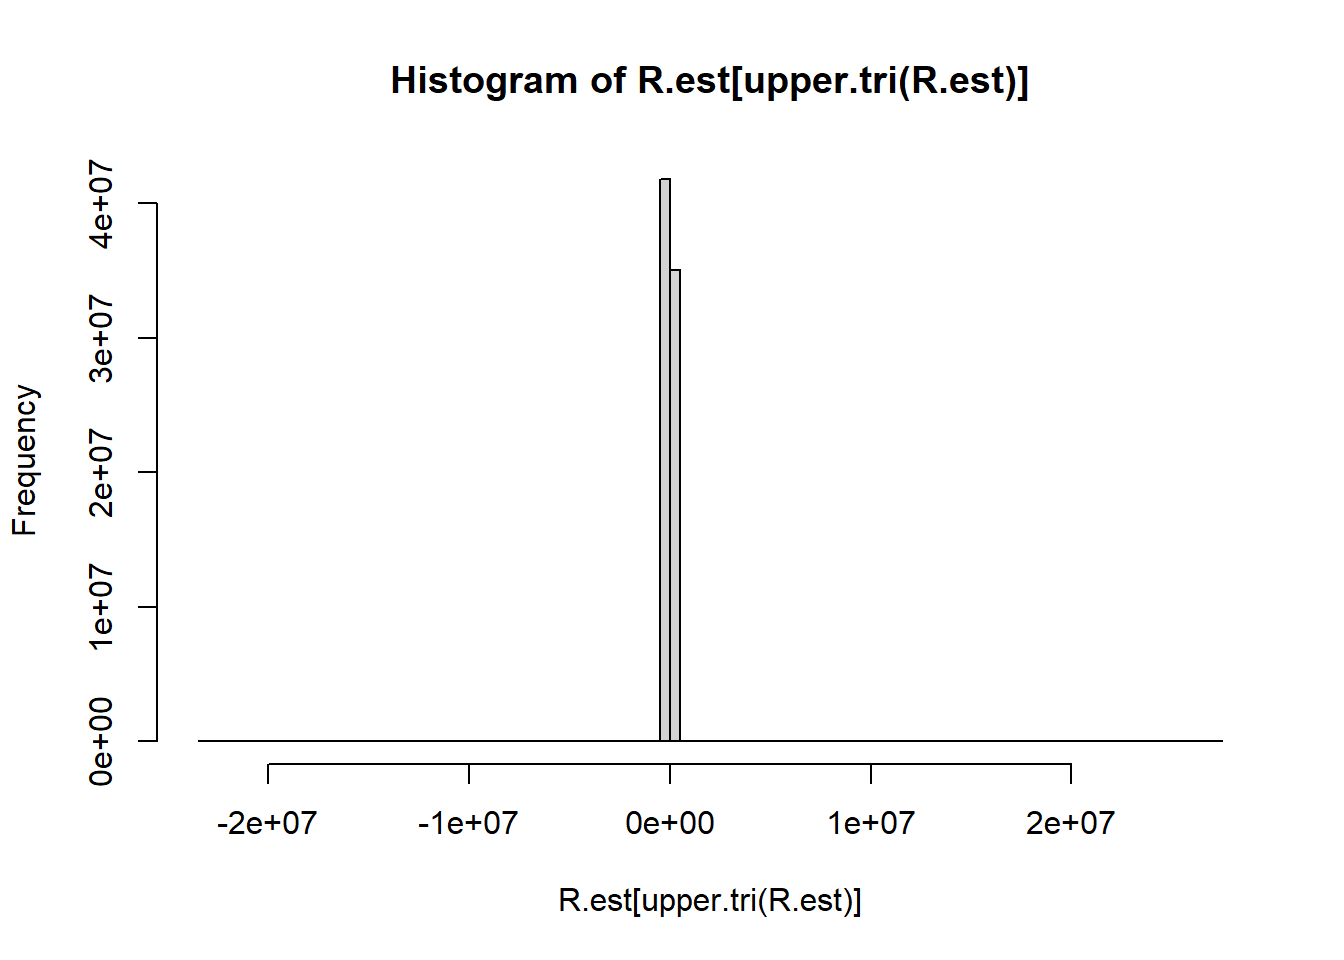
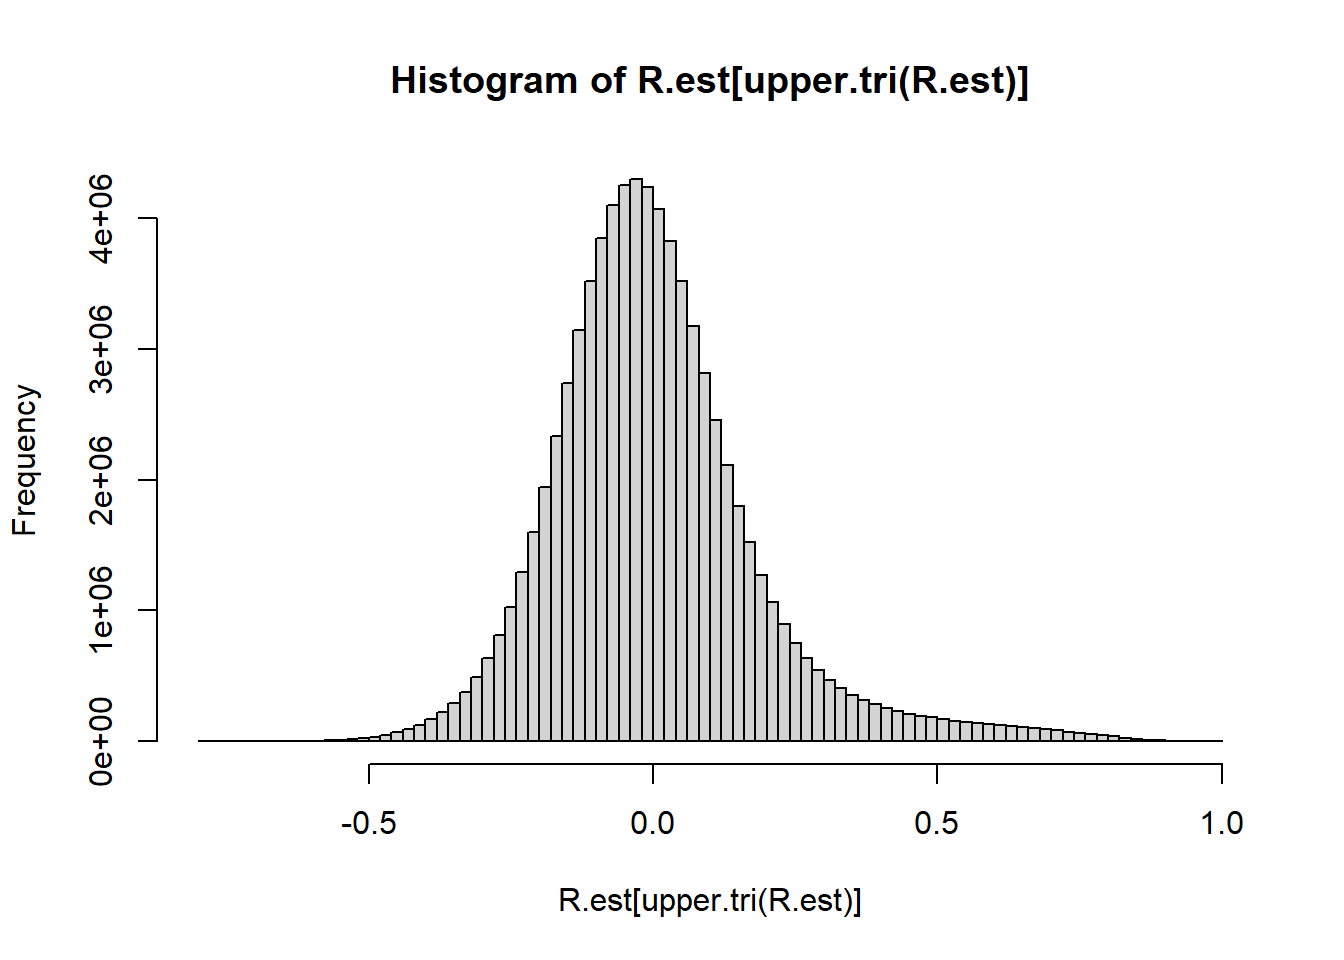
Build site.

diff --git a/docs/plot_cor.html b/docs/plot_cor.html
@@ -515,16 +515,16 @@ This reproducible <a href="http://rmarkdown.rstudio.com">R Markdown</a> analysis
 <div class="panel panel-default">
 <div class="panel-heading">
 <p class="panel-title">
-<a data-toggle="collapse" data-parent="#workflowr-checks" href="#strongRepositoryversionstrongahrefhttpsgithubcomDongyueXiedeconferencetreeeab6fa27591b563e33aa0cab6ad456d01e3f7237targetblankeab6fa2a"> <span class="glyphicon glyphicon-ok text-success" aria-hidden="true"></span> <strong>Repository version:</strong> <a href="https://github.com/DongyueXie/deconference/tree/eab6fa27591b563e33aa0cab6ad456d01e3f7237" target="_blank">eab6fa2</a> </a>
+<a data-toggle="collapse" data-parent="#workflowr-checks" href="#strongRepositoryversionstrongahrefhttpsgithubcomDongyueXiedeconferencetree33b9ba3f050ebc8e3ced446b170108febbe42c1dtargetblank33b9ba3a"> <span class="glyphicon glyphicon-ok text-success" aria-hidden="true"></span> <strong>Repository version:</strong> <a href="https://github.com/DongyueXie/deconference/tree/33b9ba3f050ebc8e3ced446b170108febbe42c1d" target="_blank">33b9ba3</a> </a>
 </p>
 </div>
[2 lines of base64/hex data omitted]
 <div class="panel-body">
 <p>
 Great! You are using Git for version control. Tracking code development and connecting the code version to the results is critical for reproducibility.
 </p>
 <p>
-The results in this page were generated with repository version <a href="https://github.com/DongyueXie/deconference/tree/eab6fa27591b563e33aa0cab6ad456d01e3f7237" target="_blank">eab6fa2</a>. See the <em>Past versions</em> tab to see a history of the changes made to the R Markdown and HTML files.
+The results in this page were generated with repository version <a href="https://github.com/DongyueXie/deconference/tree/33b9ba3f050ebc8e3ced446b170108febbe42c1d" target="_blank">33b9ba3</a>. See the <em>Past versions</em> tab to see a history of the changes made to the R Markdown and HTML files.
 </p>
 <p>
 Note that you need to be careful to ensure that all relevant files for the analysis have been committed to Git prior to generating the results (you can use <code>wflow_publish</code> or <code>wflow_git_commit</code>). workflowr only checks the R Markdown file, but you know if there are other scripts or data files that it depends on. Below is the status of the Git repository when the results were generated:
@@ -614,6 +614,40 @@ Message
 Rmd
 </td>
 <td>
+<a href="https://github.com/DongyueXie/deconference/blob/33b9ba3f050ebc8e3ced446b170108febbe42c1d/analysis/plot_cor.Rmd" target="_blank">33b9ba3</a>
+</td>
+<td>
+DongyueXie
+</td>
+<td>
+2021-07-29
+</td>
+<td>
+wflow_publish(“analysis/plot_cor.Rmd”)
+</td>
+</tr>
+<tr>
+<td>
+html
+</td>
+<td>
+<a href="https://rawcdn.githack.com/DongyueXie/deconference/ea767798c14edfc57e9123dfd9286253137e2414/docs/plot_cor.html" target="_blank">ea76779</a>
+</td>
+<td>
+DongyueXie
+</td>
+<td>
+2021-07-29
+</td>
+<td>
+Build site.
+</td>
+</tr>
+<tr>
+<td>
+Rmd
+</td>
+<td>
 <a href="https://github.com/DongyueXie/deconference/blob/eab6fa27591b563e33aa0cab6ad456d01e3f7237/analysis/plot_cor.Rmd" target="_blank">eab6fa2</a>
 </td>
 <td>
@@ -691,7 +725,7 @@ n.ref = matrix(nrow=G,ncol=K)
       thetab = apply(mb,2,function(z){z/sum(z)})
       bulk_for_cor = matrix(rpois(G*100,500*G*thetab),nrow=G)
       
-R.est = Rfast::cova(t(bulk_for_cor))
+R.est = Rfast::cora(t(bulk_for_cor))
 
 hist(R.est[upper.tri(R.est)],breaks = 100)</code></pre>
 <p><img src="figure/plot_cor.Rmd/unnamed-chunk-1-1.png" width="672" style="display: block; margin: auto;" /></p>
